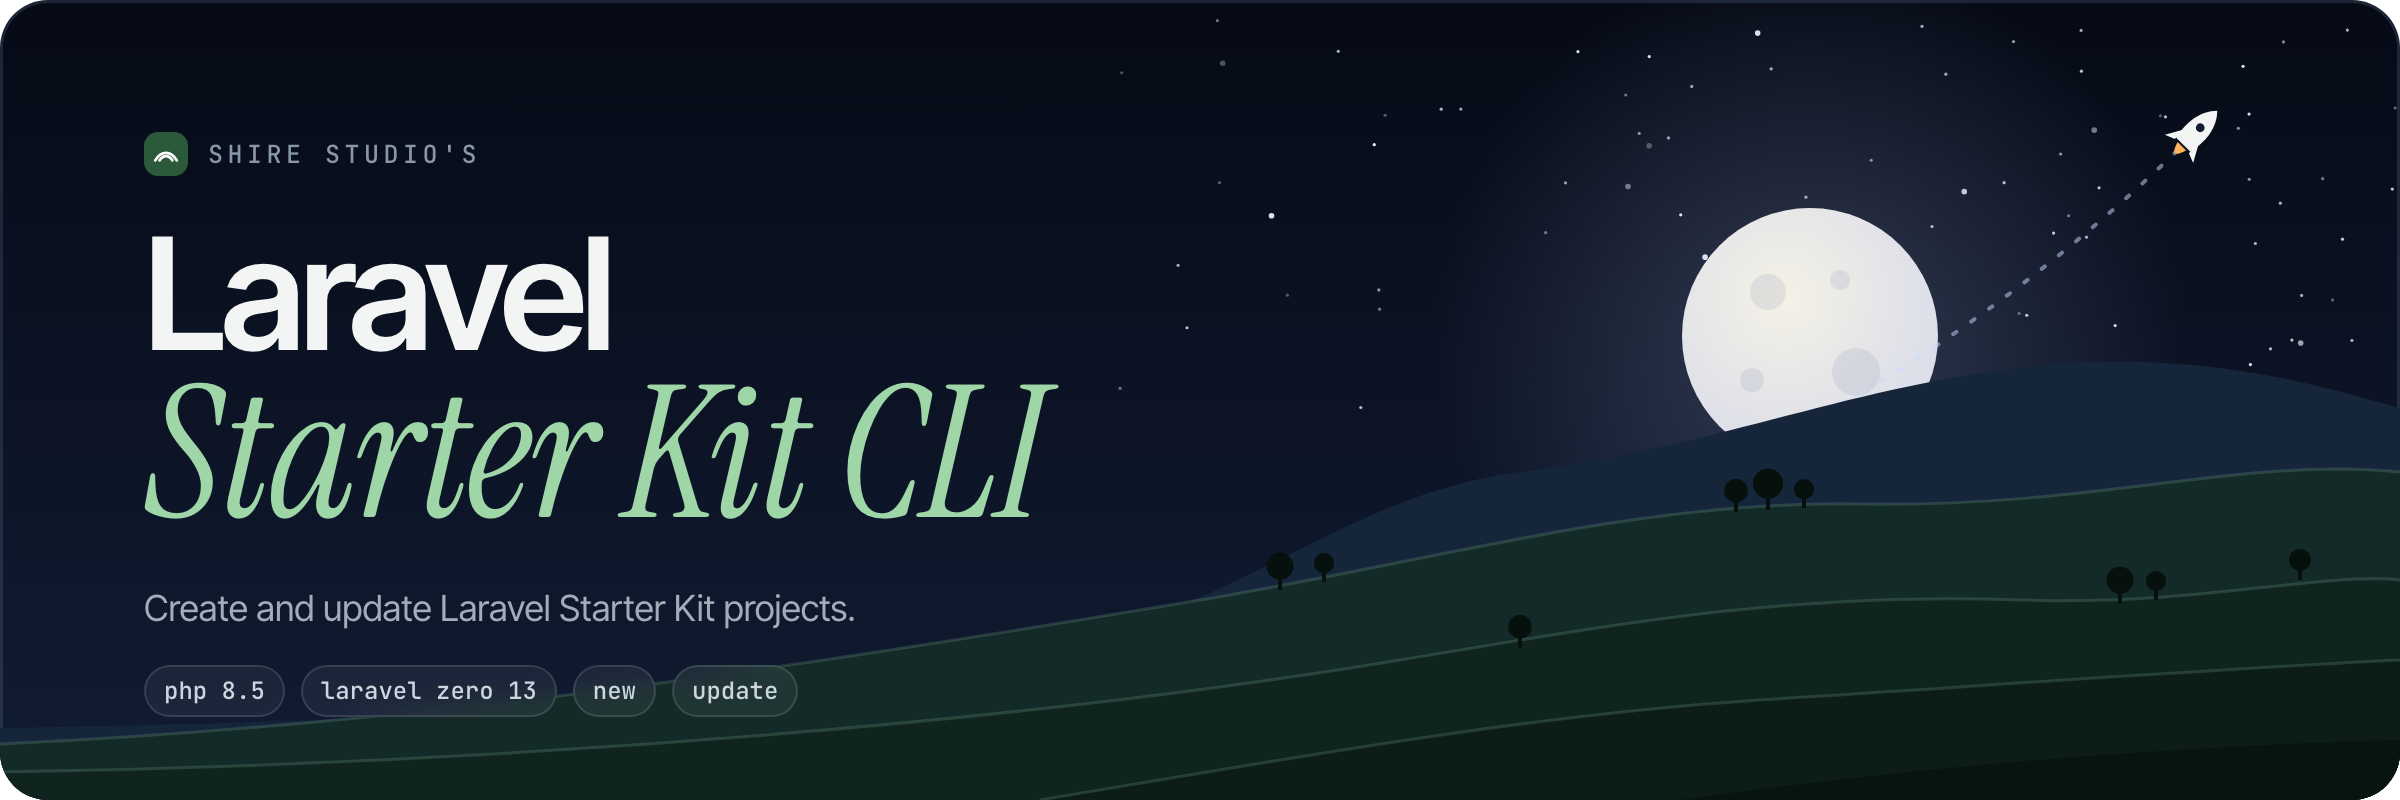
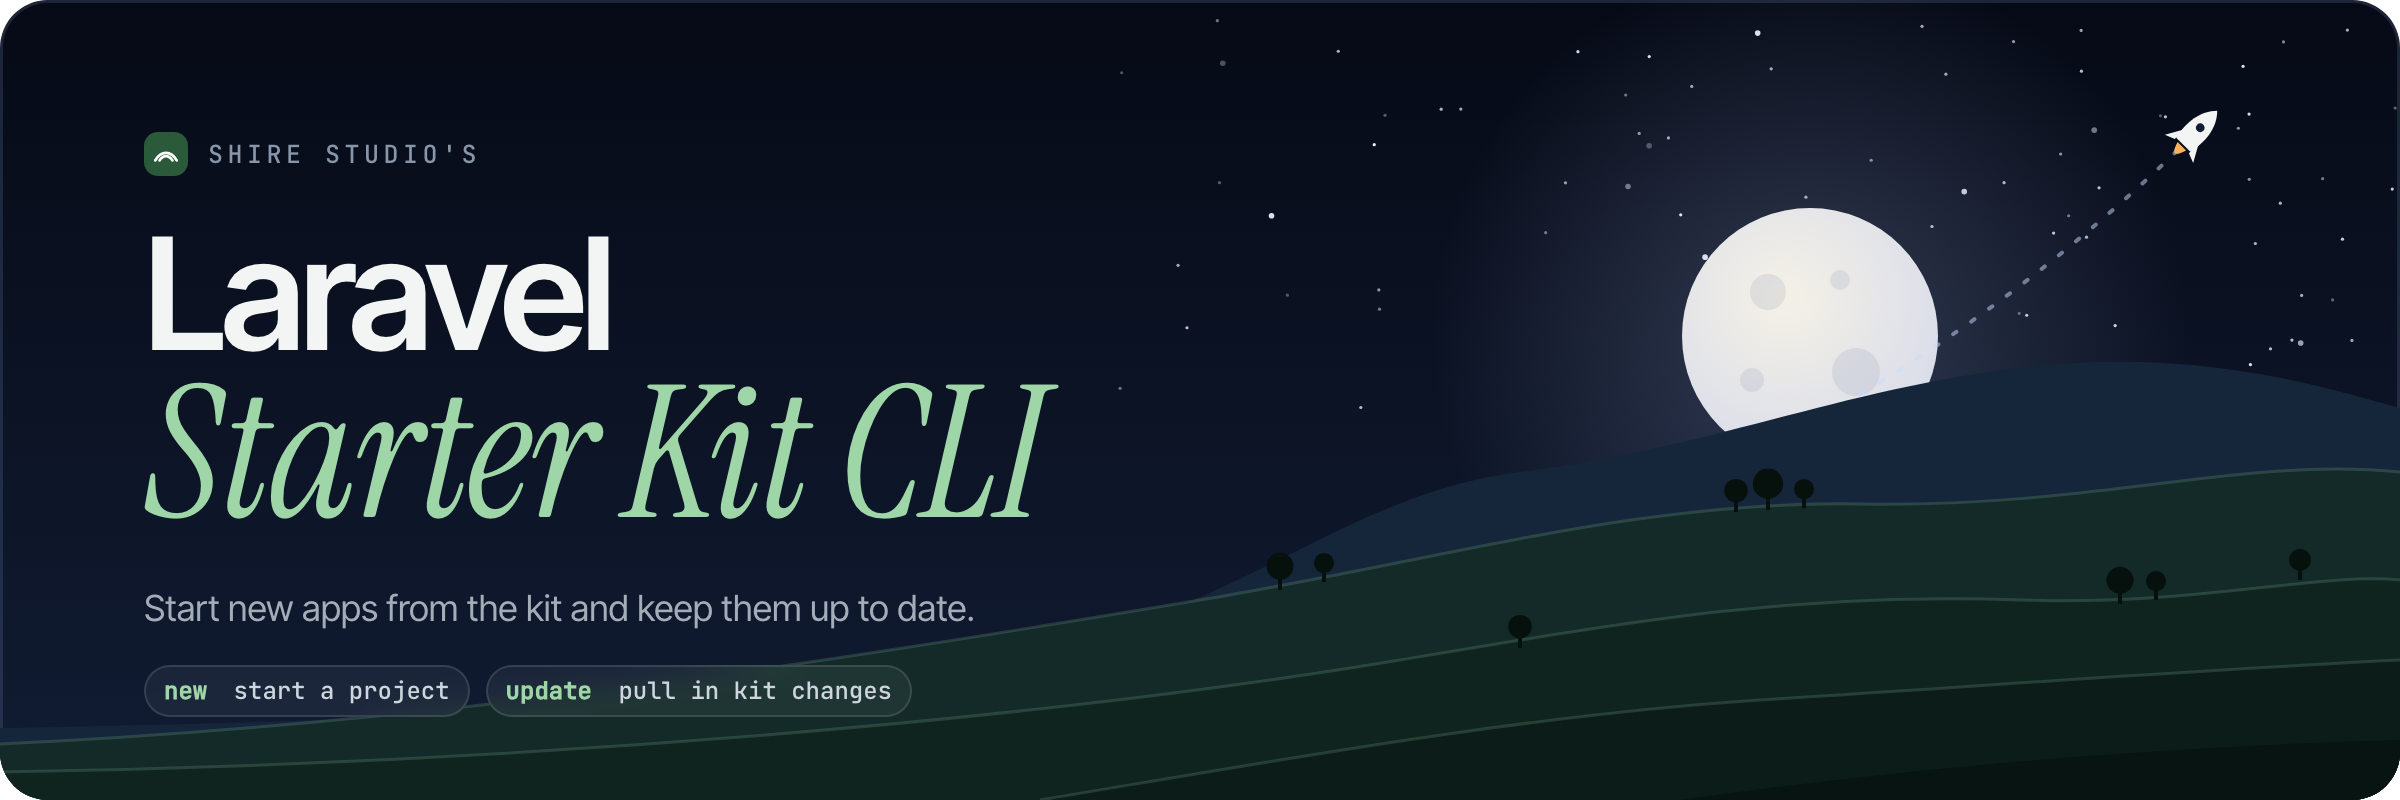
docs: clarify header art wording

Changed region(s): [[0.0625, 0.75, 0.4062, 0.7812], [0.0625, 0.8438, 0.375, 0.875]]

diff --git a/art/header.html b/art/header.html
@@ -45,6 +45,7 @@
     margin-top: 16px; display: flex; gap: 8px;
     font: 500 12px/1 "JetBrains Mono", monospace; color: var(--chip-text);
   }
+  .stack b { font-weight: 600; color: var(--accent); margin-right: 6px; }
   .stack span {
     padding: 7px 10px; border-radius: 999px;
     background: var(--chip-bg); box-shadow: inset 0 0 0 1px var(--chip-border);
@@ -125,8 +126,8 @@
       Shire Studio's
     </div>
     <h1>Laravel<em>Starter Kit CLI</em></h1>
-    <p class="tagline">Create and update Laravel Starter Kit projects.</p>
-    <div class="stack"><span>php 8.5</span><span>laravel zero 13</span><span>new</span><span>update</span></div>
+    <p class="tagline">Start new apps from the kit and keep them up to date.</p>
+    <div class="stack"><span><b>new</b> start a project</span><span><b>update</b> pull in kit changes</span></div>
   </div>
 </div>
 <script>
